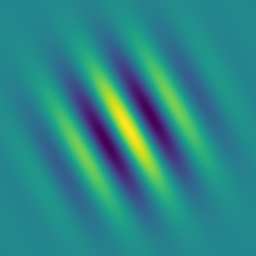
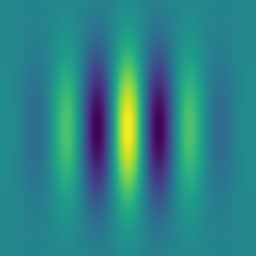
Fix issue for Gabor noise wavelengths

diff --git a/src/primitives/gabor_triangular.cpp b/src/primitives/gabor_triangular.cpp
@@ -1,0 +1,67 @@
+#define _USE_MATH_DEFINES
+
+#include <cmath>
+#include <vector>
+
+#include "macrologger.h"
+
+#include "highmap/array.hpp"
+#include "highmap/op.hpp"
+#include "highmap/primitives.hpp"
+
+#define SVD_RANK 2
+
+namespace hmap
+{
+
+Array gabor_triangular(std::vector<int> shape,
+                       float            kw,
+                       float            angle,
+                       float            slant_ratio,
+                       float            footprint_threshold)
+{
+  Array array = Array(shape);
+
+  std::vector<float> x = linspace(-1.f, 1.f, array.shape[0]);
+  std::vector<float> y = linspace(-1.f, 1.f, array.shape[1]);
+
+  float width = std::sqrt(-0.5f * M_PI / std::log(footprint_threshold));
+  float iw2 = 1.f / (width * width);
+  float ca = std::cos(angle / 180.f * M_PI);
+  float sa = std::sin(angle / 180.f * M_PI);
+
+  auto lambda = [&kw, &slant_ratio](float x)
+  {
+    x = kw * x - (int)(kw * x);
+    if (x < slant_ratio)
+      x /= slant_ratio;
+    else
+      x = 1.f - (x - slant_ratio) / (1.f - slant_ratio);
+    return x;
+  };
+
+  for (int i = 0; i < array.shape[0]; i++)
+    for (int j = 0; j < array.shape[1]; j++)
+    {
+      array(i, j) = std::exp(-M_PI * (x[i] * x[i] + y[j] * y[j]) * 0.5f * iw2);
+      array(i, j) *= lambda(0.5f * (x[i] * ca + y[j] * sa));
+    }
+
+  return array;
+}
+
+Array gabor_triangular_noise(std::vector<int> shape,
+                             float            kw,
+                             float            angle,
+                             float            slant_ratio,
+                             int              width,
+                             float            density,
+                             uint             seed)
+{
+  Array weight = white_sparse(shape, 0.f, 1.f, density, seed);
+  Array kernel = gabor({width, width}, kw, angle);
+
+  return convolve2d_svd(weight, kernel, SVD_RANK);
+}
+
+} // namespace hmap

diff --git a/include/highmap/primitives.hpp b/include/highmap/primitives.hpp
@@ -285,6 +285,20 @@ Array gabor_noise(std::vector<int> shape,
                   float            density,
                   uint             seed);
 
+Array gabor_triangular(std::vector<int> shape,
+                       float            kw,
+                       float            angle,
+                       float            slant_ratio,
+                       float            footprint_threshold = 0.05f);
+
+Array gabor_triangular_noise(std::vector<int> shape,
+                             float            kw,
+                             float            angle,
+                             float            slant_ratio,
+                             int              width,
+                             float            density,
+                             uint             seed);
+
 /**
  * @param shape Array shape.
  * @param kw Noise wavenumbers {kx, ky} for each directions, with respect to

diff --git a/src/primitives/gabor.cpp b/src/primitives/gabor.cpp
@@ -31,8 +31,12 @@ Array gabor(std::vector<int> shape,
 
   for (int i = 0; i < array.shape[0]; i++)
     for (int j = 0; j < array.shape[1]; j++)
-      array(i, j) = std::exp(-M_PI * (x[i] * x[i] + y[j] * y[j]) * 0.5f * iw2) *
-                    std::cos(kw * (x[i] * ca + y[j] * sa));
+      array(i, j) =
+          std::exp(-M_PI * (x[i] * x[i] + y[j] * y[j]) * 0.5f * iw2) *
+          std::cos(
+              M_PI * kw *
+              (x[i] * ca +
+               y[j] * sa)); // "kw" and not "2 kw" since the domain is [-1, 1]
 
   return array;
 }

diff --git a/tests/sandbox/main.cpp b/tests/sandbox/main.cpp
@@ -36,8 +36,10 @@ int main(void)
   auto noise = 0.1f * hmap::fbm_perlin(shape, res, seed, 8, 0.f);
 
   timer.start("wtri");
-  z = hmap::wave_triangular(shape, 4.f, 30.f, 0.8f, &noise);
+  z = hmap::gabor_triangular(shape, 8.f, 0.f, 0.8f);
   timer.stop("wtri");
+
+  z = hmap::gabor_triangular_noise(shape, 4.f, 30.f, 0.8f, 64, 0.05f, seed);
 
   // set_borders(z, 0.f, 256);
 

diff --git a/examples/ex_gabor_noise/ex_gabor_noise.cpp b/examples/ex_gabor_noise/ex_gabor_noise.cpp
@@ -5,7 +5,7 @@
 int main(void)
 {
   const std::vector<int> shape = {256, 256};
-  float                  kw = 15.f;
+  float                  kw = 4.f;
   float                  angle = 30.f;
   int                    width = 32;
   float                  density = 0.05f;

diff --git a/examples/ex_gabor/ex_gabor.cpp b/examples/ex_gabor/ex_gabor.cpp
@@ -5,7 +5,7 @@
 int main(void)
 {
   const std::vector<int> shape = {256, 256};
-  float                  kw = 15.f;
+  float                  kw = 4.f;
   float                  angle = 30.f;
 
   hmap::Array z = hmap::gabor(shape, kw, angle);
